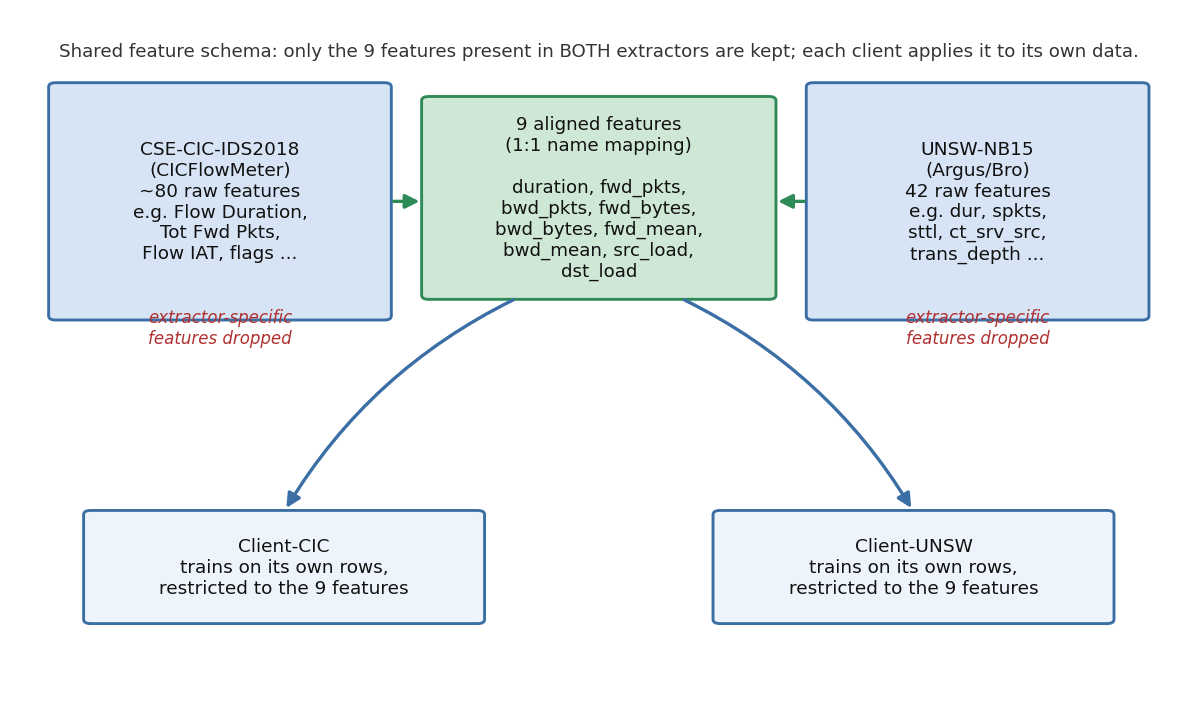
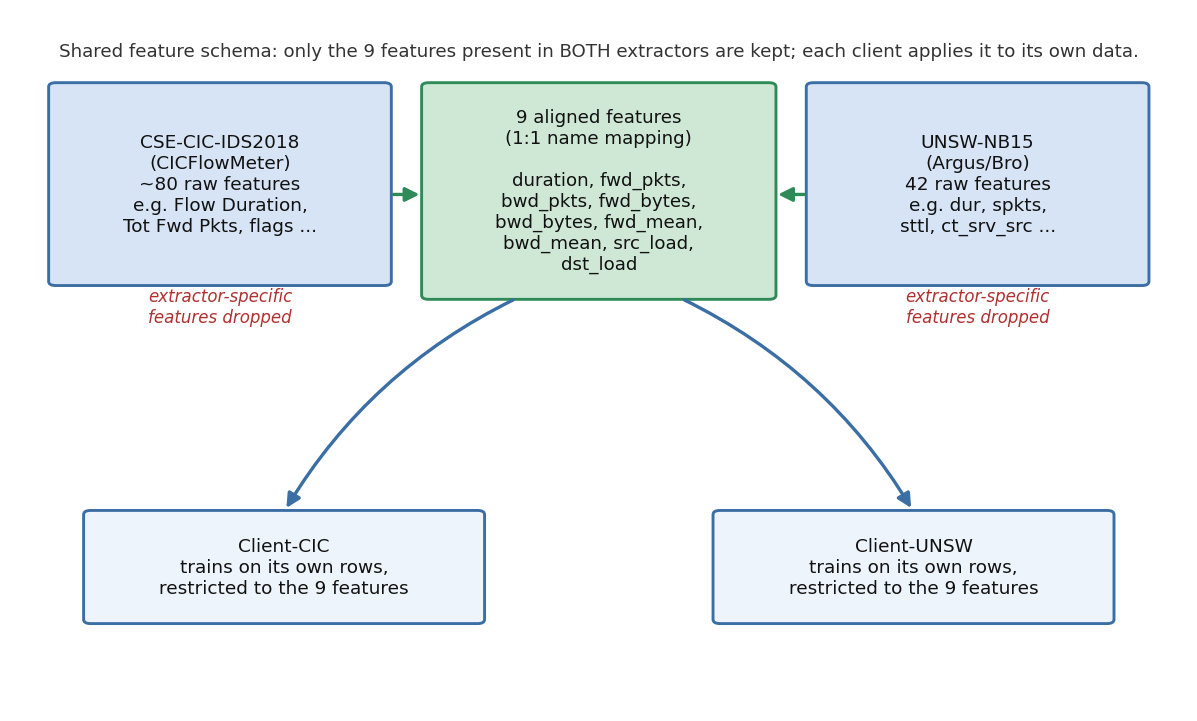
paper-survey: fix feature-alignment figure (shorten dataset boxes so 'dropped' label is not overlapped)

diff --git a/federated/make_survey_figures.py b/federated/make_survey_figures.py
@@ -78,27 +78,27 @@ def fig_feature_alignment():
     ax.axis("off")
 
     # left: CIC raw features
-    _box(ax, 0.3, 5.6, 2.9, 3.4,
-         "CSE-CIC-IDS2018\n(CICFlowMeter)\n~80 raw features\ne.g. Flow Duration,\nTot Fwd Pkts,\nFlow IAT, flags ...",
+    _box(ax, 0.3, 6.1, 2.9, 2.9,
+         "CSE-CIC-IDS2018\n(CICFlowMeter)\n~80 raw features\ne.g. Flow Duration,\nTot Fwd Pkts, flags ...",
          "#d6e4f5", ec="#3a6ea5", fs=8.3)
     # right: UNSW raw features
-    _box(ax, 6.8, 5.6, 2.9, 3.4,
-         "UNSW-NB15\n(Argus/Bro)\n42 raw features\ne.g. dur, spkts,\nsttl, ct_srv_src,\ntrans_depth ...",
+    _box(ax, 6.8, 6.1, 2.9, 2.9,
+         "UNSW-NB15\n(Argus/Bro)\n42 raw features\ne.g. dur, spkts,\nsttl, ct_srv_src ...",
          "#d6e4f5", ec="#3a6ea5", fs=8.3)
 
     # center: 9 aligned features
-    _box(ax, 3.5, 5.9, 3.0, 2.9,
+    _box(ax, 3.5, 5.9, 3.0, 3.1,
          "9 aligned features\n(1:1 name mapping)\n\nduration, fwd_pkts,\nbwd_pkts, fwd_bytes,\nbwd_bytes, fwd_mean,\nbwd_mean, src_load,\ndst_load",
          "#cfe8d6", ec="#2e8b57", fs=8.2, bold=False)
 
     # arrows: raw -> aligned (keep only the intersection)
-    _arrow(ax, (3.2, 7.3), (3.5, 7.3), color="#2e8b57")
-    _arrow(ax, (6.8, 7.3), (6.5, 7.3), color="#2e8b57")
+    _arrow(ax, (3.2, 7.4), (3.5, 7.4), color="#2e8b57")
+    _arrow(ax, (6.8, 7.4), (6.5, 7.4), color="#2e8b57")
 
-    # dropped note
-    ax.text(1.75, 5.25, "extractor-specific\nfeatures dropped", fontsize=7.5,
+    # dropped note (below the shortened boxes, with clear gap)
+    ax.text(1.75, 5.55, "extractor-specific\nfeatures dropped", fontsize=7.5,
             color="#b03030", ha="center", style="italic")
-    ax.text(8.25, 5.25, "extractor-specific\nfeatures dropped", fontsize=7.5,
+    ax.text(8.25, 5.55, "extractor-specific\nfeatures dropped", fontsize=7.5,
             color="#b03030", ha="center", style="italic")
 
     # bottom: feeds each client
